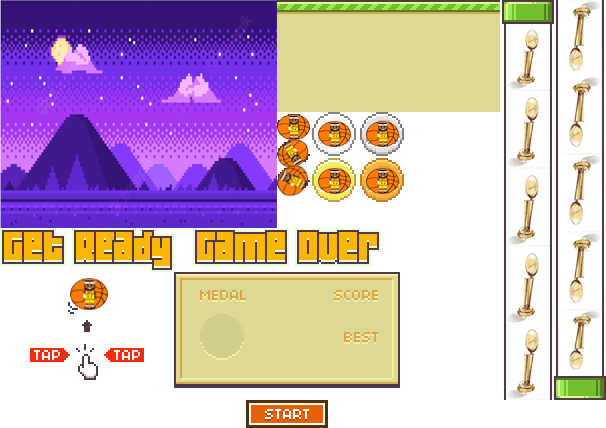
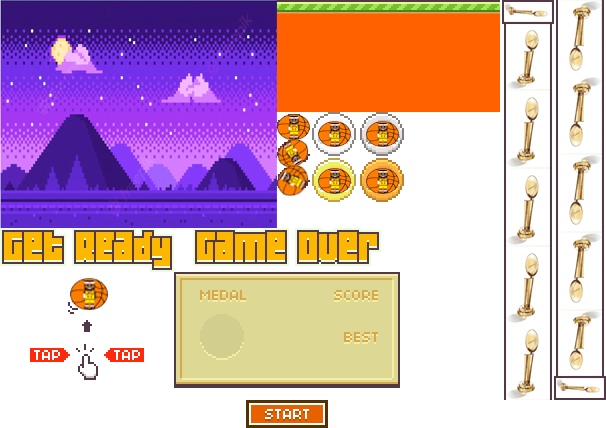
draw player,readyUp,gameOver set game stages

Changed region(s): [[0.4455, 0.0, 0.9208, 0.2734], [0.8911, 0.8808, 1.0, 0.9416]]

diff --git a/game.js b/game.js
@@ -1,22 +1,41 @@
-// SELECT CNVS
+// CANVAS
 const cnvs = document.getElementById("lebron");
-const resize = () => {
-    cnvs.width = window.innerWidth;
-    cnvs.height = window.innerHeight;
-  }
-  resize()
-  window.addEventListener('resize', resize)
+
 const cntx = cnvs.getContext("2d");
 
 // GAME VARS AND CONSTS
 let frames = 0;
 const DEGREE = Math.PI/180;
 
-// LOAD SPRITE IMAGE
+// LOAD IMAGES
 const layout = new Image();
 layout.src="resources/layout.png"
 
-//background
+//GAME STAGES
+const stage= {
+    present: 0,
+    readyUP: 0, 
+    game: 1,
+    die: 2, 
+}
+
+//CONTROLS
+document.addEventListener("click", function(evt){
+    switch(stage.current){
+        case stage.readyUP:
+            stage.current= stage.game;
+            break;
+            case stage.game:
+                leBall.spin();
+                break;
+                case stage.die:
+                    stage.current= stage.readyUP;
+                    break;
+    }
+})
+
+
+//BACKGROUND
 const backG= {
         sX : 1,
         sY : 0,
@@ -33,7 +52,46 @@ const backG= {
          }
 }
 
-//lebron
+//GET READY
+const readyUP= {
+    sX: 0,
+    sY: 228,
+    sW: 173,
+    sH: 153,
+    dW: 250,
+    dH: 250,
+    x:195,
+    y:460,
+
+    draw : function(){
+        if(stage.present==stage.readyUP){
+           cntx.drawImage(layout, this.sX, this.sY, this.sW, this.sH, this.x, this.y, this.dW, this.dH);
+} 
+        }
+        
+}
+
+//GAME OVER
+const gameOver= {
+    sX: 175,
+    sY: 228,
+    sW: 225,
+    sH: 202,
+    dW: 300,
+    dH: 300,
+    x:180,
+    y:460,
+
+    draw : function(){
+        if (stage.present==stage.die){
+           cntx.drawImage(layout, this.sX, this.sY, this.sW, this.sH, this.x, this.y, this.dW, this.dH); 
+        }
+        
+}
+}
+//LEBRON
+
+//LeBALL ANIMATION FOR SPIN
 const leBall = {
     Animation: [
         {sX:277, sY: 112},
@@ -52,7 +110,10 @@ const leBall = {
         let leBall = this.Animation[this.frame];
 
         cntx.drawImage(layout, leBall.sX, leBall.sY, this.w, this.h, this.x, this.y, this.w, this.h);
-    }
+    },
+    spin : function(){
+
+    },
 }
 
 // DRAW
@@ -62,6 +123,8 @@ function draw(){
     
     backG.draw();
     leBall.draw();
+    readyUP.draw();
+    gameOver.draw();
 }
 
 // UPDATE
@@ -78,3 +141,4 @@ function loop(){
     requestAnimationFrame(loop);
 }
 loop();
+

diff --git a/game.html b/game.html
@@ -8,7 +8,7 @@
     
 </head>
 <body>
-    <canvas id="lebron" width="window.innerWidth" height="window.innerHeight"></canvas>
+    <canvas id="lebron" width="640" height="920"></canvas>
 
     <script src="game.js"></script>
 </body>
